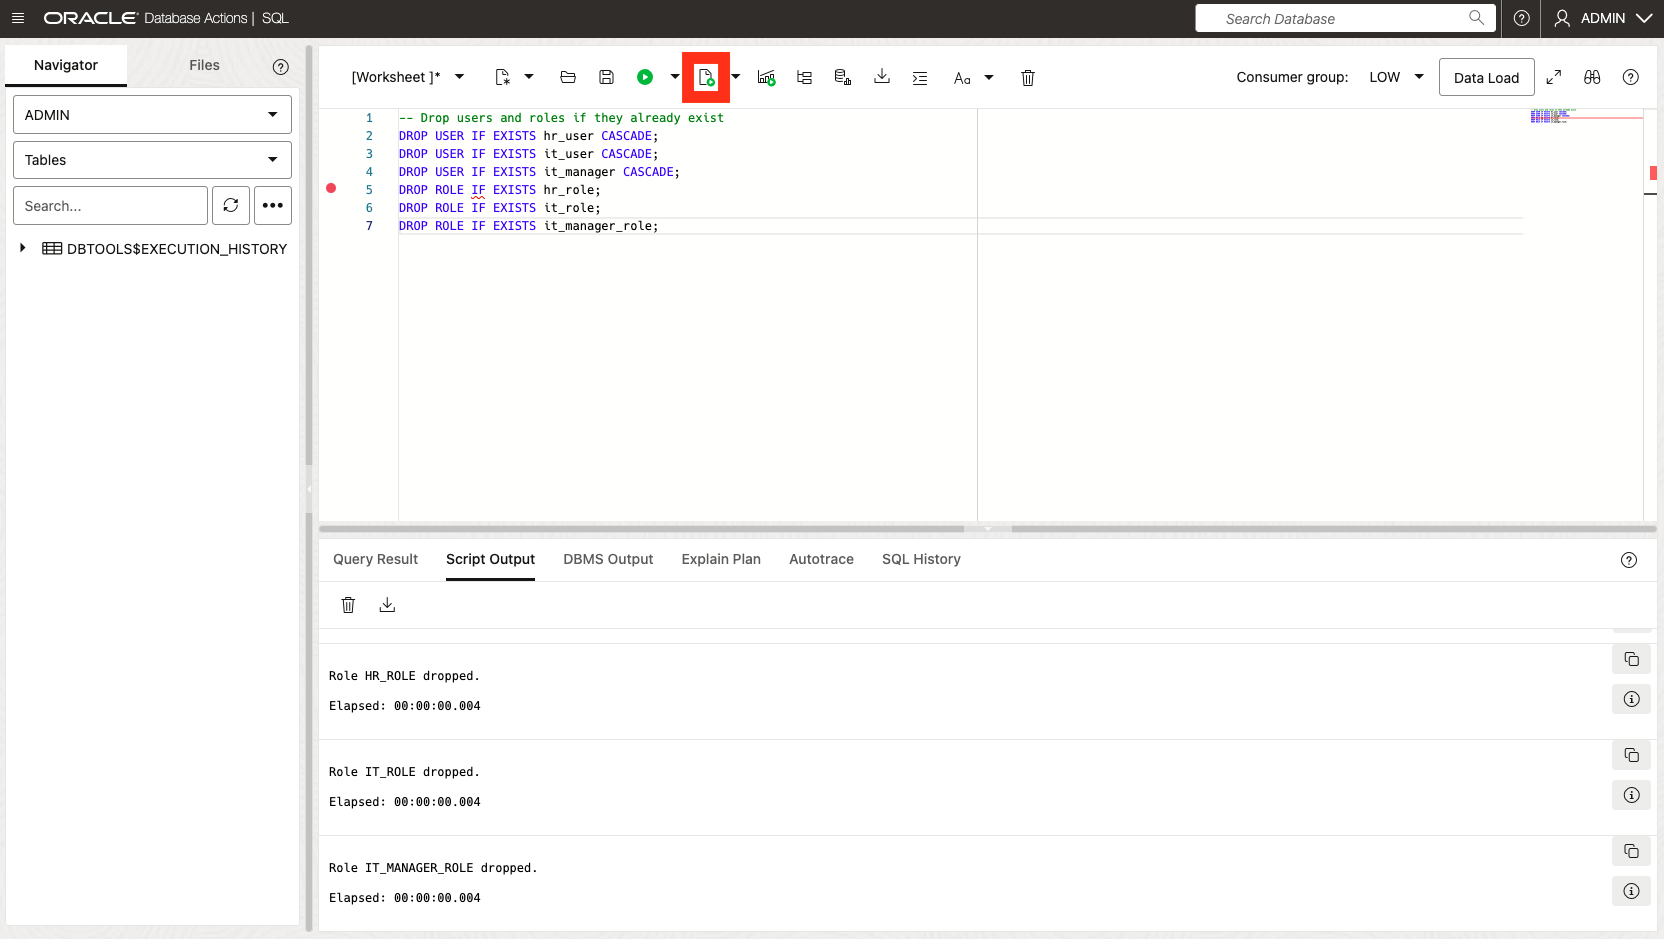
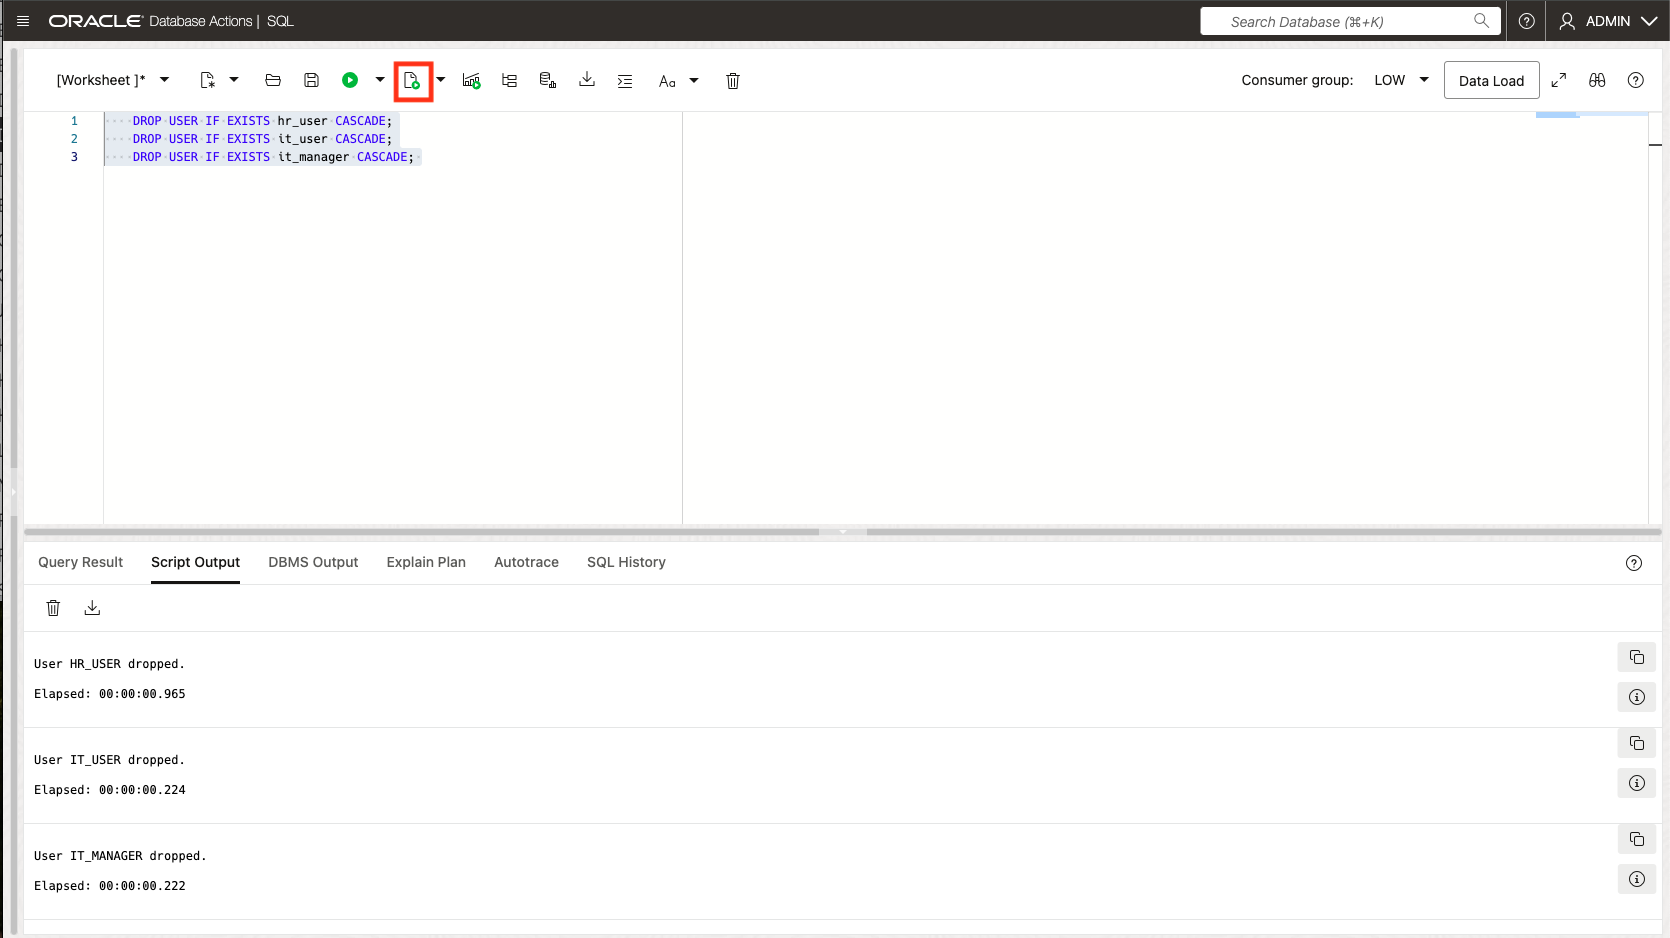
WID - 4008 - updated schema-level privileges.md (#686)
* updated schema-level-privileges2.md

* updated images

* updated images

diff --git a/db-23ai-fundamentals/new-schema-level-privileges/new-schema-level-privileges2.md b/db-23ai-fundamentals/new-schema-level-privileges/new-schema-level-privileges2.md
@@ -27,30 +27,66 @@ The objective of this workshop is to learn how to work with the schema-level pri
 1. From the Autonomous Database home page, **click** Database action and then **click** SQL.
     ![click SQL](images/im1.png " ")
 
-2. Let's create roles and users, and assign schema-level privilages using role based access control for efficient management. The roles will be assigned schema-level privileges rather than individual users.
+2. Let's first drop roles and users.
 
     ```
     <copy>
-    -- Drop users and roles if they already exist
+    -- Drop users if they already exist
     DROP USER IF EXISTS hr_user CASCADE;
     DROP USER IF EXISTS it_user CASCADE;
     DROP USER IF EXISTS it_manager CASCADE; 
-    DROP ROLE IF EXISTS hr_role;
-    DROP ROLE IF EXISTS it_role;
-    DROP ROLE IF EXISTS it_manager_role;
     </copy>
     ```
     ![drops users and roles](images/a.png " ")
 
-3. We will next be creating users, their respective roles and the quota for the tablespace.
+3. We will next create users. We will begin with a placeholder password. To change the password for the users use the "alter user identified by "new password" command. With the syntax below for distinct users, make sure to replace `new_password_here` to your new password(needs one uppercase letter and atleast one number). Throughout this workshop we will use the Oracle123long password.
 
     ```
     <copy>
     -- Create users
-    CREATE USER hr_user IDENTIFIED BY Oracle123long;
-    CREATE USER it_user IDENTIFIED BY Oracle123long;
-    CREATE USER it_manager IDENTIFIED BY Oracle123long;
+    CREATE USER hr_user IDENTIFIED BY Placeholder1;
+    CREATE USER it_user IDENTIFIED BY Placeholder2;
+    CREATE USER it_manager IDENTIFIED BY Placeholder3;
+    </copy>
+    ```
+    ![creates users](images/1a.png " ")
 
+    
+    This will change the password for hr_user
+    ```
+    <copy>
+    ALTER USER hr_user IDENTIFIED BY  </copy>new_password_here;
+    ```
+    ```
+    ALTER USER hr_user IDENTIFIED BY Oracle123long;
+    ```
+    ![changes password for hr user](images/1b.png " ")
+
+
+    This will change the password for it_user
+    ```
+    <copy>
+    ALTER USER it_user IDENTIFIED BY  </copy>new_password_here;
+    ```
+    ```
+    ALTER USER it_user IDENTIFIED BY Oracle123long;
+    ```
+    ![changes password for it user](images/1c.png " ")
+
+
+    This will change the password for it_manager
+    ```
+    <copy>
+    ALTER USER it_manager IDENTIFIED BY  </copy>new_password_here;
+    ```
+    ```
+    ALTER USER it_manager IDENTIFIED BY Oracle123long;
+    ```
+    ![changes password for it manager](images/1d.png " ")
+
+4. Now we will be granting the respective roles to the users as well as the quota for the tablespace.
+    ```
+    <copy>
     --Grant roles to user
     GRANT CONNECT, RESOURCE TO hr_user, it_user, it_manager;
     GRANT DWROLE TO hr_user, it_user, it_manager;
@@ -62,10 +98,10 @@ The objective of this workshop is to learn how to work with the schema-level pri
     ALTER USER it_manager QUOTA UNLIMITED ON DATA;
     </copy>
     ```
-    ![creates and grants users and roles](images/b.png " ")
+    ![creates and grants users and roles](images/1e.png " ")
 
 
-4. Next, this will enable the users to have access to console.
+5. With this next code, we will enable web access to our 3 users.
 
     ```
     <copy>
@@ -126,7 +162,7 @@ The objective of this workshop is to learn how to work with the schema-level pri
     ```
     ![grants users access to webconsole](images/c.png " ")
 
-5. Now we will create `employees`, `department` and `salary` tables. These tables will demonstarte how different levels of privilege can be applied.  
+6. Now we will create `employees`, `department` and `salary` tables. These tables will demonstarte how different levels of privilege can be applied.  
 
     ```
     <copy>
@@ -177,18 +213,22 @@ The objective of this workshop is to learn how to work with the schema-level pri
     ```
     <copy>
     SELECT * FROM DBA_SCHEMA_PRIVS WHERE GRANTEE = 'HR_USER';
+    SELECT * FROM DBA_SCHEMA_PRIVS WHERE GRANTEE = 'IT_USER';
+    SELECT * FROM DBA_SCHEMA_PRIVS WHERE GRANTEE = 'IT_MANAGER';
     SELECT * FROM DBA_TAB_PRIVS WHERE GRANTEE = 'IT_USER';
     SELECT * FROM DBA_TAB_PRIVS WHERE GRANTEE = 'IT_MANAGER';
     </copy>
     ```
-    ![view privileges](images/f.png " ")
+    
+    Since only `hr_user` has schema-level privileges, when we run `DBA_SCHEMA_PRIVS`, we see that the privilege SELECT is set to ANY. Meanwhile, since both `it_user` and `it_manager` neither have schema-level privileges, when running the same command for both they return no data found as neither has the correct privileges. It is only with `DBA_TAB_PRIVS` that we can see their privileges.
+    ![view privileges](images/f1.png " ")
 
 ## Task 4: Demonstrating Schema-Level Privileges
-1. To explore the new schema-level privileges, `Sign out` of the `ADMIN` account and log in as the `hr_user` user. At the login screen, click on `Advanced` to drop down the Path settings. Now, enter the login credentials for the `hr_user` user:
+1. To explore the new schema-level privileges, `Sign out` of the `ADMIN` account and log in as the `hr_user` user. At the login screen, enter the login credentials for the `hr_user` user:
     - `USERNAME`: hr_user 
     - `PASSWORD`: Oracle123long
 
-    ![signout from admin](images/6.png " ")
+    ![signout from admin](images/16.png " ")
     ![login screen for hr_user](images/7.png " ")
     ![click on sql](images/8.png " ")
 
@@ -279,8 +319,28 @@ The objective of this workshop is to learn how to work with the schema-level pri
 
     ![it user viewing all the tables](images/J.png " ")
 
-9. Let's return to the `Admin` account by logging out of the `it_user` session. Navigate back to the  ADB screen on OCI ,click on SQL again to automatically return to the `ADMIN`.
-    ![signout hr_user](images/20.png " ")
+10. Sign out of the `it_user` session and log into `hr_user`. We will see how the privileges of this user is limited when compared to hr_user.
+    - `USERNAME`: hr_user 
+    - `PASSWORD`: Oracle123long
+
+    ![signout from admin](images/16.png " ")
+    ![login screen for hr_user](images/17.png " ")
+    ![click on sql](images/18.png " ")
+
+11. Now that we have returned to `hr_user` which was the original user with schema-level privileges, we will see how not only do we have access to the first 3 tables, we can also `SELECT` from `projects`.
+    ```
+    <copy>
+    SELECT * FROM hr_user.employees;
+    SELECT * FROM hr_user.departments;
+    SELECT * FROM hr_user.salaries;
+    SELECT * FROM hr_user.projects;
+    </copy>
+    ```
+    ![hr user viewing all the tables](images/J1.png " ")
+
+
+12. Let's return to the `Admin` account by logging out of the `hr_user` session. Navigate back to the  ADB screen on OCI ,click on SQL again to automatically return to the `ADMIN`.
+    ![signout from hr user](images/10.png " ")
     ![adb sql returning to admin](images/im1.png " ")
 
 ## Task 5: Revoking Schema-Level Privileges
@@ -294,7 +354,7 @@ The objective of this workshop is to learn how to work with the schema-level pri
     ```
     ![revoking access from it user](images/M.png " ")
 
-2. Once the privileges have been revoked, we can verify the updated access by reviewing the remaining privileges granted to `it_user`. `DBA_SCHEMA_PRVIS` will return no data found, but `DBA_TAB_PRIVS` will show that our original privileges have returned.
+2. Once the privileges have been revoked, we can verify the updated access by reviewing the remaining privileges granted to `it_user`. `DBA_SCHEMA_PRVIS` will return no data found, but `DBA_TAB_PRIVS` will show that our original privileges are still there.
     ```
     <copy>
     SELECT * FROM DBA_SCHEMA_PRIVS WHERE GRANTEE = 'IT_USER';
@@ -309,15 +369,14 @@ The objective of this workshop is to learn how to work with the schema-level pri
     ```
       ![showing table level priv is back to normal](images/O.png " ") 
 
-3. We will `Sign out` of ADMIN account and switch to it_user account. At the login screen, click `Advanced` to drop down the Path and enter the login credentials we previously set up for the it_user user.
-    - `Path` : it_user
+3. We will `Sign out` of ADMIN account and switch to it_user account. At the login screen, enter the login credentials we set up for the it_user user.
     - `USERNAME`: it_user
     - `PASSWORD`: Oracle123long
 
     ![signout admin](images/24.png " ")
     ![login to hr_user](images/25.png " ")
 
-4. Now we will see that our schema-level privileges have been revoked. `it_user` will not be able to `SELECT` from all the tables as before, only `employees` and `department` which originally granted.  
+4. Now we will see that our schema-level privileges have been revoked. `it_user` will not be able to `SELECT` from all the tables as before, only `employees` and `department` which were originally granted.  
 
     ```
     <copy>
@@ -333,7 +392,6 @@ The objective of this workshop is to learn how to work with the schema-level pri
     ![signout hr_user](images/28.png " ")
     ![adb sql returning to admin](images/im1.png " ")
 
-
 ## Task 6: Cleanup
 1. Finally, let's clean up the environment by dropping the the users, roles, and objects created
 
@@ -343,9 +401,9 @@ The objective of this workshop is to learn how to work with the schema-level pri
     DROP USER IF EXISTS hr_user CASCADE;
     DROP USER IF EXISTS it_user CASCADE;
     DROP USER IF EXISTS it_manager CASCADE;
-    DROP ROLE IF EXISTS hr_role;
-    DROP ROLE IF EXISTS it_role;
-    DROP ROLE IF EXISTS it_manager_role;
+    DROP ROLE IF EXISTS hr_user;
+    DROP ROLE IF EXISTS it_user;
+    DROP ROLE IF EXISTS it_manager;
     </copy>
     ```
 
